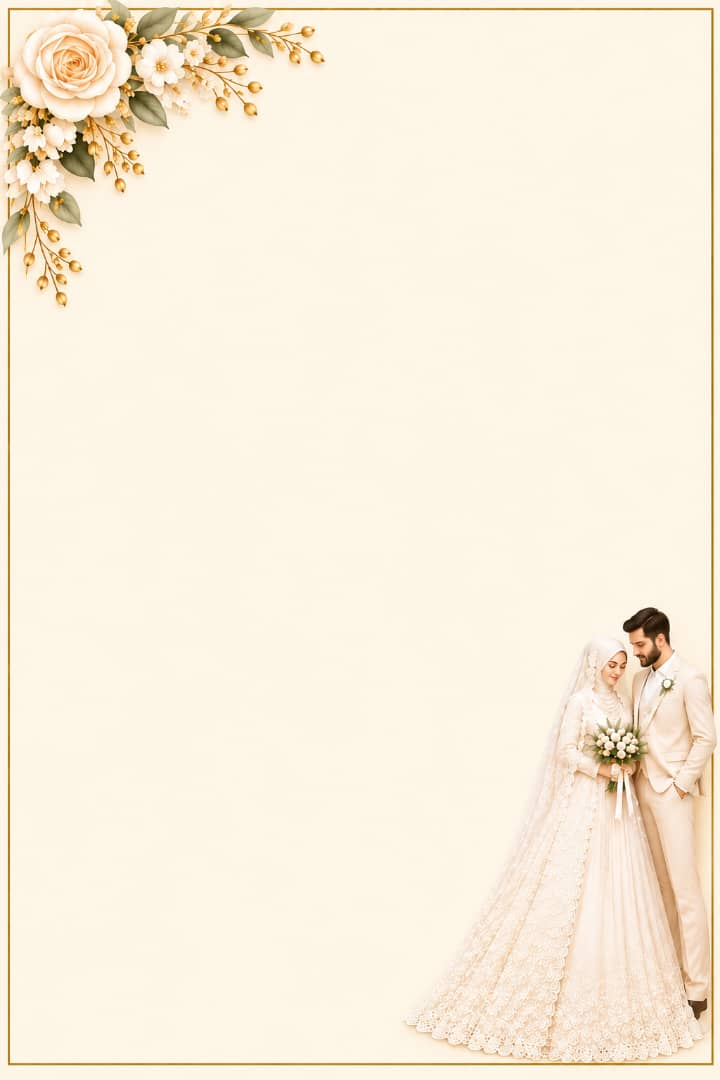
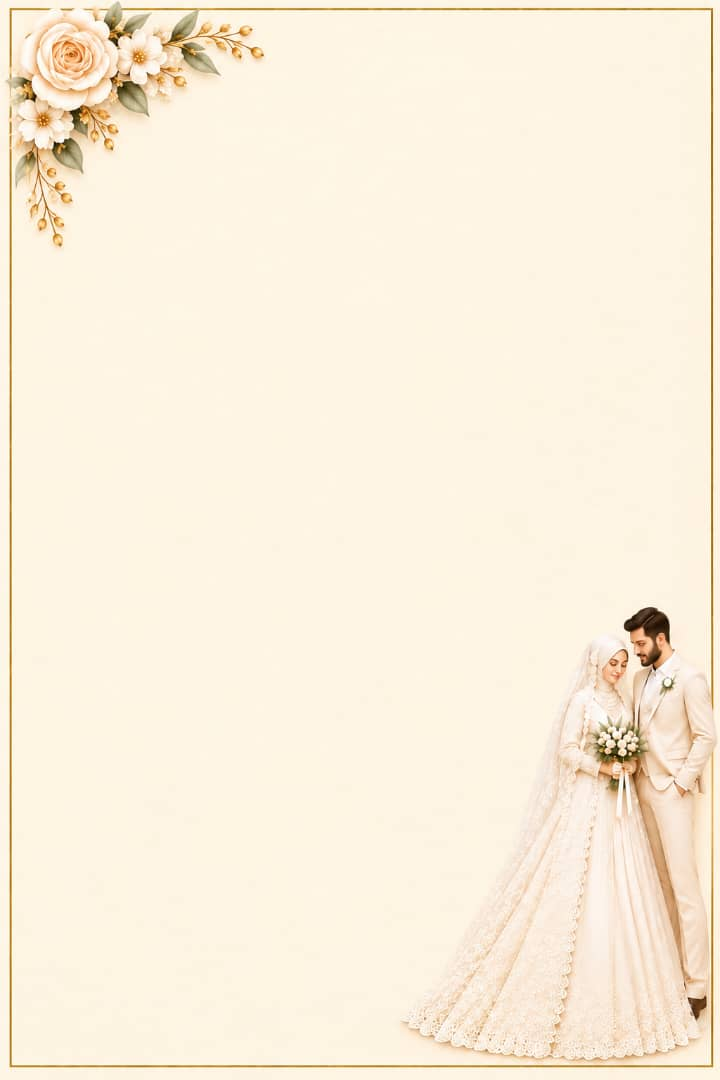
Complete project

diff --git a/src/App.css b/src/App.css
@@ -114,7 +114,7 @@ img {
 
 .bismillah {
   margin: 20px 0 2px;
-  margin-top: 25px;
+  margin-top: 20px;
   color: #505236;
   font-size: clamp(20px, 5.5vw, 24px);
   line-height: 1.25;
@@ -141,7 +141,7 @@ img {
 .card-border h1 {
   margin: 7px 0;
   color: #74602c;
-  font-size: clamp(9px, 3vw, 14px);
+  font-size: clamp(10px, 3vw, 14px);
   line-height: 1.08;
   overflow-wrap: anywhere;
   text-shadow: 0 1px 2px #fffaf0;
@@ -150,7 +150,7 @@ img {
 .card-border h2 {
   margin: 7px 0;
   color: #74602c;
-  font-size: clamp(9px, 3vw, 14px);
+  font-size: clamp(10px, 3vw, 14px);
   line-height: 1.08;
   overflow-wrap: anywhere;
   text-shadow: 0 1px 2px #fffaf0;
@@ -177,7 +177,7 @@ img {
   align-items: center;
   justify-content: center;
   gap: 10px;
-  margin: 8px 0;
+  margin: 7px 0;
   color: #505236;
   font-size: 9px;
   letter-spacing: 1px;
@@ -252,7 +252,7 @@ img {
 .children-request h3 {
   margin: 1px 0 3px;
   color: #74602c;
-  font-size: 9px;
+  font-size: 10px;
   line-height: 1.2;
 }
 
@@ -263,23 +263,12 @@ img {
   gap: 2px;
 }
 
-.child-illustration {
-  display: block;
-  flex: 0 0 14%;
-  width: 12%;
-  max-width: 38px;
-  height: 45px;
-  object-fit: contain;
-  object-position: center;
-  background: transparent;
-}
-
 .request-copy {
   flex: 1;
   min-width: 0;
   color: #505236;
-  font-size: 8px;
-  line-height: 1.25;
+  font-size: 9px;
+  line-height: 1.3;
   overflow-wrap: break-word;
 }
 
@@ -299,6 +288,7 @@ img {
 .adults-only {
   color: #74602c;
   font-weight: bold;
+  font-size: 9px;
 }
 
 .closing {
@@ -595,9 +585,6 @@ img {
     line-height: 1.2;
   }
 
-  .child-illustration {
-    height: 36px;
-  }
 
   .monogram {
     gap: 25px;
@@ -745,9 +732,6 @@ img {
     font-size: clamp(6px, 2vw, 9px);
   }
 
-  .child-illustration {
-    height: 42px;
-  }
 
   .monogram {
     gap: clamp(30px, 8vw, 45px);
@@ -846,17 +830,14 @@ img {
   }
 
   .children-request {
-    width: 80%;
-    max-width: 280px;
+    width:100%;
+    max-width: 300px;
   }
 
   .request-copy {
-    font-size: 10px;
+    font-size: 9px;
   }
 
-  .child-illustration {
-    height: 55px;
-  }
 
   .monogram {
     gap: 55px;

diff --git a/src/App.jsx b/src/App.jsx
@@ -3,8 +3,6 @@ import { motion, AnimatePresence } from "motion/react";
 import "./App.css";
 
 import firstPage from "./assets/images/first-page1.jpeg";
-import childLeft from "./assets/images/child-left.jpeg";
-import childRight from "./assets/images/child-right.jpeg";
 import confetti from "canvas-confetti";
 
 const flowerShape = confetti.shapeFromText({
@@ -330,7 +328,7 @@ export default function App() {
 
                           <motion.p variants={fadeIn}>
                             As much as we adore your little ones,
-                            our wedding will be an{" "}
+                            our <br /> wedding will be an{" "}
                             <strong>ADULT-ONLY</strong> celebration.
                           </motion.p>
 
@@ -345,7 +343,8 @@ export default function App() {
                           <motion.p
                             className="adults-only"
                             variants={textReveal}
-                          ><span>2</span> SEATS HAVE BEEN RESERVED IN YOUR HONOUR
+                          >
+                            <span>2</span> SEATS HAVE BEEN RESERVED IN YOUR HONOUR
                           
                           </motion.p>
                           
